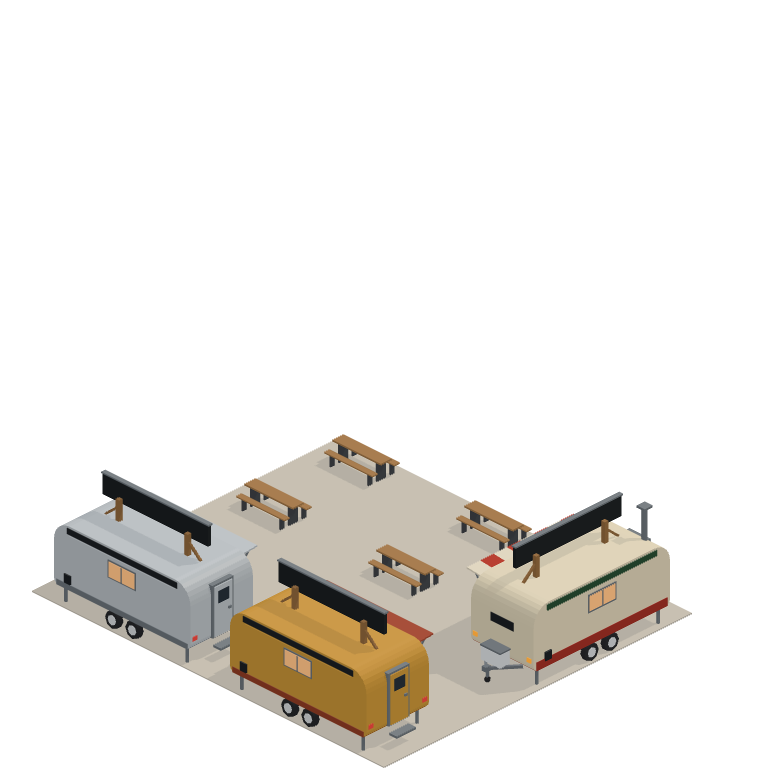
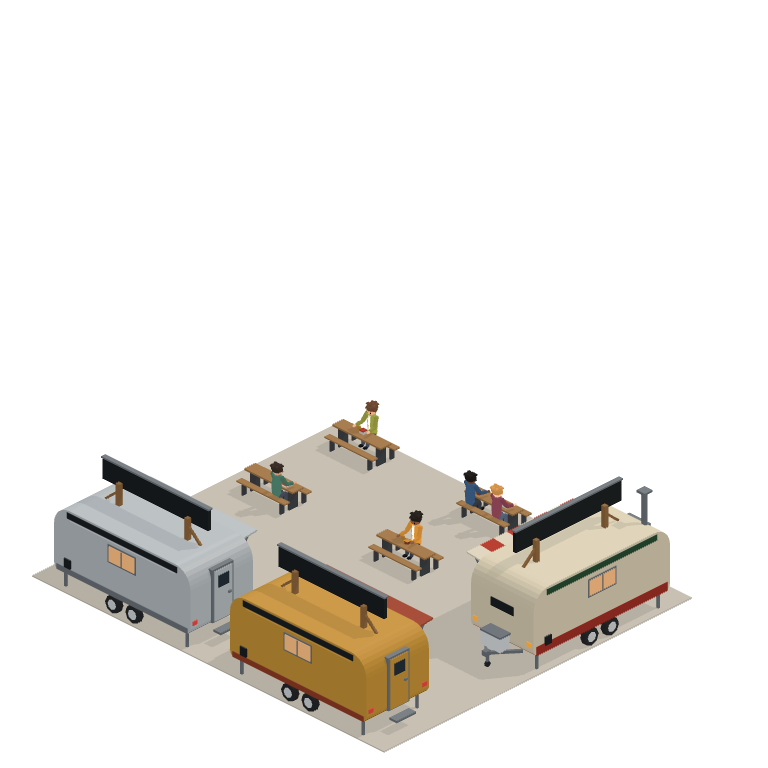
Food truck square: five seated guests at the tables, each with their food
Guests are the city avatar's model in other clothes and skin and hair colours (no glasses, no laptop), seated on the
benches clear of the visitor's three seats, baked into the square's sprites (lib/city/models/cateItSquareStates.ts GUESTS).

Changed region(s): [[0.0312, 0.5, 0.9062, 1.0]]

diff --git a/lib/city/models/cateItSquareStates.ts b/lib/city/models/cateItSquareStates.ts
@@ -3,6 +3,8 @@ import { createBurgerTrailerModel } from './cateItBurger';
 import { createPizzaTrailerModel } from './cateItPizza';
 import { createStreetFoodTrailerModel } from './cateItAfrican';
 import { BENCH_TOP, TABLE_TOP, beerTableSet, box } from './cateItSquareParts';
+import { createGustavAvatar, type AvatarRig } from './gustavAvatarRig';
+import { poseAvatarSit } from './gustavAvatarSit';
 
 // The food truck square for the city (Linear POR-38): one 8 x 7 walk-in plot with the three trailers around a small plaza
 // and four beer tables. Trucks stand square to the grid (a true half circle of 4 x 2 trucks needs 10 x 10): the street food
@@ -52,7 +54,51 @@ export function createCateItSquareModel(options: Options = {}): THREE.Group {
     const [x, z] = plan(t);
     group.add(beerTableSet(x, z, options));
   }
+  for (const guest of GUESTS) group.add(createGuest(guest, options));
   return group;
+}
+
+/** Guests at the tables, baked into the square's sprite: seat (plan tiles), facing (0 = south, 180 = north), their food,
+ *  and clothes. They keep clear of the three seats the visitor's avatar uses (SEATS). */
+type Guest = { at: [number, number]; yawDeg: number; meal: Truck; skin: string; hair: string; jacket: string; tee: string; jeans: string };
+export const GUESTS: Guest[] = [
+  { at: [6.7, 4.25], yawDeg: 0, meal: 'pizza', skin: '#c58c69', hair: '#2b211b', jacket: '#3f6b5a', tee: '#e9e4d8', jeans: '#3a3f4a' },
+  { at: [4.0, 4.75], yawDeg: 180, meal: 'african', skin: '#7a4e35', hair: '#1c1714', jacket: '#c9852f', tee: '#f1ece2', jeans: '#2f3440' },
+  { at: [3.7, 6.25], yawDeg: 0, meal: 'burger', skin: '#e6b79a', hair: '#b07a3e', jacket: '#7b3b4a', tee: '#e9e4d8', jeans: '#4a5568' },
+  { at: [4.3, 6.25], yawDeg: 0, meal: 'african', skin: '#5e3b28', hair: '#151110', jacket: '#2f4c6e', tee: '#d9c9a8', jeans: '#2b2f36' },
+  { at: [7.0, 6.75], yawDeg: 180, meal: 'burger', skin: '#d9a07c', hair: '#5a3b26', jacket: '#8c8f3a', tee: '#efe9dd', jeans: '#3b4252' },
+];
+
+const GUEST_COLOURS: Record<string, keyof Guest> = {
+  skin: 'skin', hair: 'hair', 'hair-light': 'hair', jacket: 'jacket', 'jacket-shade': 'jacket', tee: 'tee', jeans: 'jeans',
+};
+
+/** One seated guest: the city avatar's model in other clothes, no glasses or laptop, with a meal in front */
+function createGuest(guest: Guest, options: Options): THREE.Group {
+  const g = new THREE.Group();
+  g.name = 'guest';
+  const person = createGustavAvatar({ laptop: false, castShadow: options?.castShadow ?? true });
+  const shade = (hex: string, f: number) => new THREE.Color(hex).multiplyScalar(f);
+  person.traverse((o) => {
+    const mesh = o as THREE.Mesh;
+    if (!mesh.isMesh) return;
+    const id = (mesh.userData.sculptComponent as { material?: string } | undefined)?.material;
+    if (id === 'glasses-frame') { mesh.visible = false; return; }
+    const key = id ? GUEST_COLOURS[id] : undefined;
+    if (!key) return;
+    const m = (mesh.material as THREE.MeshStandardMaterial).clone();
+    m.color = shade(guest[key] as string, id!.endsWith('-shade') ? 0.8 : id === 'hair-light' ? 1.2 : 1);
+    if (m.emissive) m.emissive.copy(m.color);
+    mesh.material = m;
+  });
+  const [x, z] = plan(guest.at);
+  person.position.set(x, 0.02, z);
+  person.rotation.y = THREE.MathUtils.degToRad(guest.yawDeg);
+  poseAvatarSit(person.userData.avatar as AvatarRig, 0.02 + BENCH_TOP);
+  const meal = createSquareMeal(guest.meal, options);
+  meal.position.set(x, 0, z + (guest.yawDeg === 180 ? -0.22 : 0.22));
+  g.add(person, meal);
+  return g;
 }
 
 /** The meal on the table in front of a seated avatar (seated frames only), in the avatar's frame: a burger box, a flat
